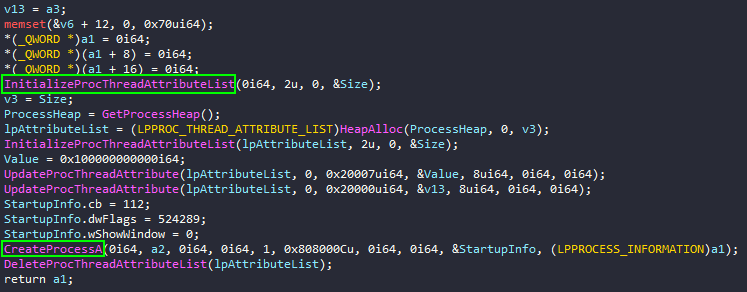
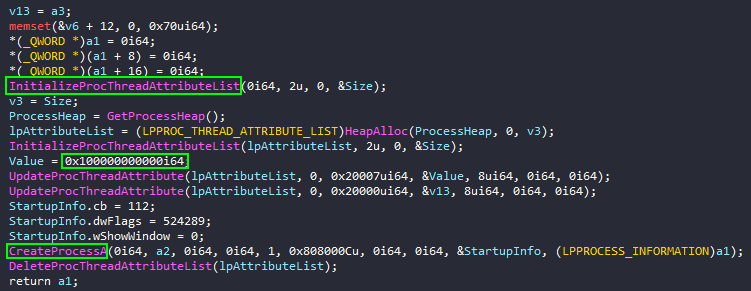
new article added

Changed region(s): [[0.0, 0.0, 0.9853, 0.9897]]

diff --git a/docs/research/the-curious-case-of-sberauto-spear-phishing-campaign/index.html b/docs/research/the-curious-case-of-sberauto-spear-phishing-campaign/index.html
@@ -115,7 +115,7 @@
 <p>On December 19, 2022 malware researcher known as <strong>StopMalvertisin</strong> twitted about a possible APT29 attack.</p>
 <p><img src="image-0.png" alt="Alt text"></p>
 <p>The spear-phishing campaign targeted <strong>SberAuto</strong>, a Russian online car trading platform associated with the state-owned banking and financial services company <strong>Sberbank</strong>.<br>
-The analyzed attack displayed similar TTPs commonly attributed to <strong>APT29</strong> (aka <strong>Cozy Bear</strong>), even though it is unclear why a Russian-backed hacking group should be targeting a domestic web service.</p>
+The analyzed attack displayed similar <strong>TTPs</strong> commonly attributed to <strong>APT29</strong> (aka <strong>Cozy Bear</strong>), even though it is unclear why a Russian-backed hacking group should be targeting a domestic web service.</p>
 <h2 id="technical-analysis">Technical Analysis</h2>
 <h3 id="initial-stage">Initial Stage</h3>
 <p>The first stage of this attack is represented by an <strong>ISO</strong> file (0b32bd907072d95223e5eb2dc5e3d9e0) named &ldquo;Алкоголь_2023_zip.iso&rdquo; (i.e., &ldquo;Alcohol&rdquo;), uploaded on VirusTotal from Russia on December 19, 2022 and potentially delivered as an email attachment.</p>
@@ -138,13 +138,16 @@ If the hostname does not match, the program terminates.</p>
 <p>After that, the malicious DLL iterates through the running processes using <code>Process32Next</code> to find the ID of <strong>explorer.exe</strong> and obtain its process handle.</p>
 <p><img src="image-8.png" alt="Alt text"></p>
 <p>It then creates a <em>suspended-process</em> called <strong>RuntimeBroker.exe</strong> using <code>CreateProcessA</code> and sets &ldquo;explorer.exe&rdquo; as the parent process via <code>UpdateProcThreadAttribute</code> API.</p>
+<p>The attribute parameter with the value 0x20007 corresponds to the definition of <strong>PROC_THREAD_ATTRIBUTE_MITIGATION_POLICY</strong>, while the value <code>0x100000000000</code> corresponds to <strong>PROCESS_CREATION_MITIGATION_POLICY_BLOCK_NON_MICROSOFT_BINARIES_ALWAYS_ON</strong>: it is typical for <strong>CobaltStrike</strong> to use CreateProcess API call along with a <strong>STARTUPINFOEX</strong> structure containing this mitigation policy to block DLLs that are not signed by Microsoft.</p>
 <p><img src="image-9.png" alt="Alt text"></p>
-<p>Finally, it decrypts the shellcode into &ldquo;RuntimeBroker.exe&rdquo; through <code>NtAllocateVirtualMemory</code> and <code>NtWriteVirtualMemory</code>, setting it to an executable <strong>APC routine</strong> which is thus run via the <code>NtAlertResumeThread</code> syscall.</p>
+<p>Finally, the DLL decrypts the shellcode into &ldquo;RuntimeBroker.exe&rdquo; through <code>NtAllocateVirtualMemory</code> and <code>NtWriteVirtualMemory</code>, sets it to an executable <strong>APC routine</strong> and run it via the <code>NtAlertResumeThread</code>.
+All this function API calls are done directly via <strong>syscall</strong> to hinder analysis.</p>
 <p><img src="image-10.png" alt="Alt text"></p>
 <p>The presence of specific debug strings shows that the program was created with <strong>Shhhloader</strong> framework, a &ldquo;shellcode loader that takes raw shellcode as input and compiles a C++ stub that does a bunch of different things to try and bypass AV/EDR&rdquo;.</p>
 <p><img src="image-11.png" alt="Alt text"></p>
 <h3 id="final-stage-cobalt-strike">Final stage: Cobalt Strike</h3>
-<p>The final payload is a <strong>Cobalt Strike Beacon</strong> that, after obtaining the relevant information about the victim machine such as <em>username</em>, <em>computer name</em> and <em>computer version</em>, sends them to the <strong>C2</strong> <code>adblockext[.]ru</code> domain via  <strong>Base64-encoded</strong> scheme.</p>
+<p>The shellcode</p>
+<p>that, after obtaining the relevant information about the victim machine such as <em>username</em>, <em>computer name</em> and <em>computer version</em>, sends them to the <strong>C2</strong> <code>adblockext[.]ru</code> domain via  <strong>Base64-encoded</strong> scheme.</p>
 <pre tabindex="0"><code>https://adblockext[.]ru/functionalStatus/hw7s8TE4f9GtrBHb8iiFT7RyIAuN?_=BASE64_ENCODED_DATA
 </code></pre><h2 id="conclusion">Conclusion</h2>
 <p>The similarities with previous APT29 campaigns (i.e., the use of ISO files containing binaries vulnerable to DLL hijacking) may lead to a couple of final hypotheses.<br>

diff --git a/content/research/apt29.md b/content/research/apt29.md
@@ -12,7 +12,7 @@ On December 19, 2022 malware researcher known as **StopMalvertisin** twitted abo
 ![Alt text](image-0.png)
 
 The spear-phishing campaign targeted **SberAuto**, a Russian online car trading platform associated with the state-owned banking and financial services company **Sberbank**.  
-The analyzed attack displayed similar TTPs commonly attributed to **APT29** (aka **Cozy Bear**), even though it is unclear why a Russian-backed hacking group should be targeting a domestic web service.
+The analyzed attack displayed similar **TTPs** commonly attributed to **APT29** (aka **Cozy Bear**), even though it is unclear why a Russian-backed hacking group should be targeting a domestic web service.
 
 
 ## Technical Analysis
@@ -56,11 +56,15 @@ After that, the malicious DLL iterates through the running processes using ```Pr
 
 ![Alt text](image-8.png)
 
-It then creates a *suspended-process* called **RuntimeBroker.exe** using ```CreateProcessA``` and sets "explorer.exe" as the parent process via ```UpdateProcThreadAttribute``` API.   
+It then creates a *suspended-process* called **RuntimeBroker.exe** using ```CreateProcessA``` and sets "explorer.exe" as the parent process via ```UpdateProcThreadAttribute``` API.
+
+The attribute parameter with the value 0x20007 corresponds to the definition of **PROC_THREAD_ATTRIBUTE_MITIGATION_POLICY**, while the value ```0x100000000000``` corresponds to **PROCESS_CREATION_MITIGATION_POLICY_BLOCK_NON_MICROSOFT_BINARIES_ALWAYS_ON**: it is typical for **CobaltStrike** to use CreateProcess API call along with a **STARTUPINFOEX** structure containing this mitigation policy to block DLLs that are not signed by Microsoft.
 
 ![Alt text](image-9.png)
 
-Finally, it decrypts the shellcode into "RuntimeBroker.exe" through ```NtAllocateVirtualMemory``` and ```NtWriteVirtualMemory```, setting it to an executable **APC routine** which is thus run via the ```NtAlertResumeThread``` syscall.  
+
+Finally, the DLL decrypts the shellcode into "RuntimeBroker.exe" through ```NtAllocateVirtualMemory``` and ```NtWriteVirtualMemory```, sets it to an executable **APC routine** and run it via the ```NtAlertResumeThread```.
+All this function API calls are done directly via **syscall** to hinder analysis. 
 
 ![Alt text](image-10.png)
 
@@ -70,7 +74,11 @@ The presence of specific debug strings shows that the program was created with *
 
 
 ### Final stage: Cobalt Strike
-The final payload is a **Cobalt Strike Beacon** that, after obtaining the relevant information about the victim machine such as *username*, *computer name* and *computer version*, sends them to the **C2** ```adblockext[.]ru``` domain via  **Base64-encoded** scheme. 
+The shellcode 
+
+
+
+  that, after obtaining the relevant information about the victim machine such as *username*, *computer name* and *computer version*, sends them to the **C2** ```adblockext[.]ru``` domain via  **Base64-encoded** scheme. 
 
 
 ```
